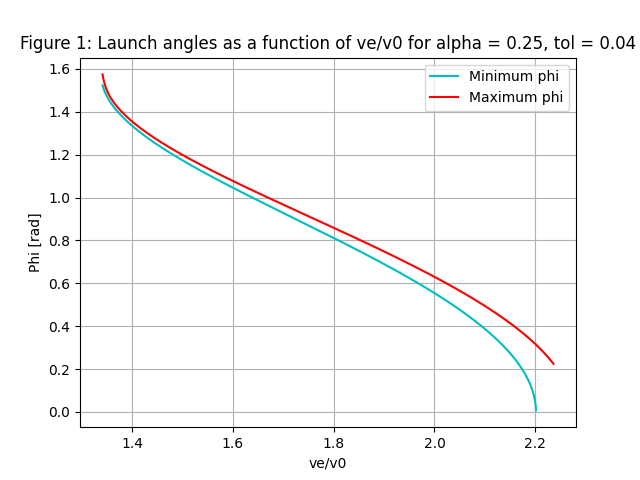
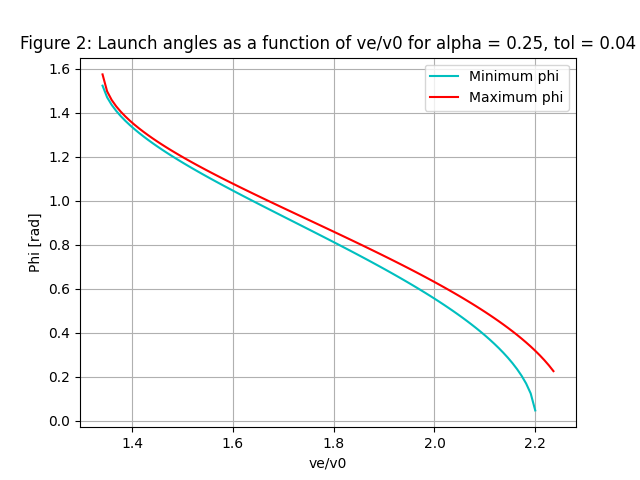
all

diff --git a/examples/driver.py b/examples/driver.py
@@ -55,7 +55,7 @@ def main():
     a_min = 0 #Sets minimum alpha for ve/v0 = 2.0
     tol_alpha = 0.04
 
-    alpha = np.linspace(a_min,a_max,10000) #Creates array of alpha values to plot
+    alpha = np.linspace(a_min,a_max,100) #Creates array of alpha values to plot
 
     phi = np.zeros((len(alpha), 2)) #Creates zero-matrix to be populated by values of phi
     phi_min = phi #Creates zero-matrix to be populated by values of phi
@@ -85,7 +85,7 @@ def main():
     ve_min = 3 * np.sqrt(1/5) #Minimum value of ve/v0 for alpha = 0.25
     ve_max = np.sqrt(5) #Maximum value of ve/v0 for alpha = 0.25
 
-    ve_v0 = np.linspace(ve_min,ve_max,10000) #Creates array of ve/v0 values to plot
+    ve_v0 = np.linspace(ve_min,ve_max,100) #Creates array of ve/v0 values to plot
 
     phi = np.zeros((len(ve_v0), 2)) #Creates zero-matrix to be populated with values of phi
     phi_min = phi #Creates zero-matrix to be populated with values of phi
@@ -101,13 +101,15 @@ def main():
     plt.figure() #Initializes figure
     plt.xlabel("ve/v0") #Sets x axis label
     plt.ylabel("Phi [rad]") #Sets y axis label
-    plt.title("Figure 1: Launch angles as a function of ve/v0 for alpha = 0.25, tol = 0.04") #Sets figure title
+    plt.title("Figure 2: Launch angles as a function of ve/v0 for alpha = 0.25, tol = 0.04") #Sets figure title
     plt.plot(ve_v0,phi_min,"-c",label="Minimum phi") #Plots minimum values of phi for some ve/v0
     plt.plot(ve_v0,phi_max,"-r",label="Maximum phi") #Plots maximum values of phi for some ve/v0
     plt.legend() #Sets legend
     plt.grid() #Grids figure
     plt.savefig('.\\goph-419-f2023-lab01-stMD\\figures\\vev0.png')
     plt.show() #Shows plots
+
+    print(domain)
 
 if __name__ == "__main__": #Initializes program
     main()

diff --git a/src/goph419lab01/range.py b/src/goph419lab01/range.py
@@ -51,7 +51,9 @@ def launch_angle_range(ve_v0, alpha, tol_alpha):
 
     print("Alpha = ",alpha) #Displays alpha used
     print("Expected minimum angle: ", phi_min_exp) #Shows computed arcsin value
-    print("Computed minimum angle: ",phi_min) #Shows expected arcsin
+    print("Computed minimum angle: ",phi_min) #Shows expected 
+    print("Total iterations: ", k)
+    print()
 
     eps_a = 1 #Default value for relative error
     tot = 0 #Initializes summation
@@ -73,6 +75,7 @@ def launch_angle_range(ve_v0, alpha, tol_alpha):
     phi_max_exp = np.arcsin(sin_max) #Computes expected arcsin
     print("Expected Maximum Angle: ", phi_max_exp) #Displays computed arcsin
     print("Computed Maximum Angle: ",phi_max) #Displays expected arcsin
+    print("Total Iterations: ", k)
     print()
 
     domain = np.array([phi_min,phi_max]) #Creates array of minimum and maximum phi values
